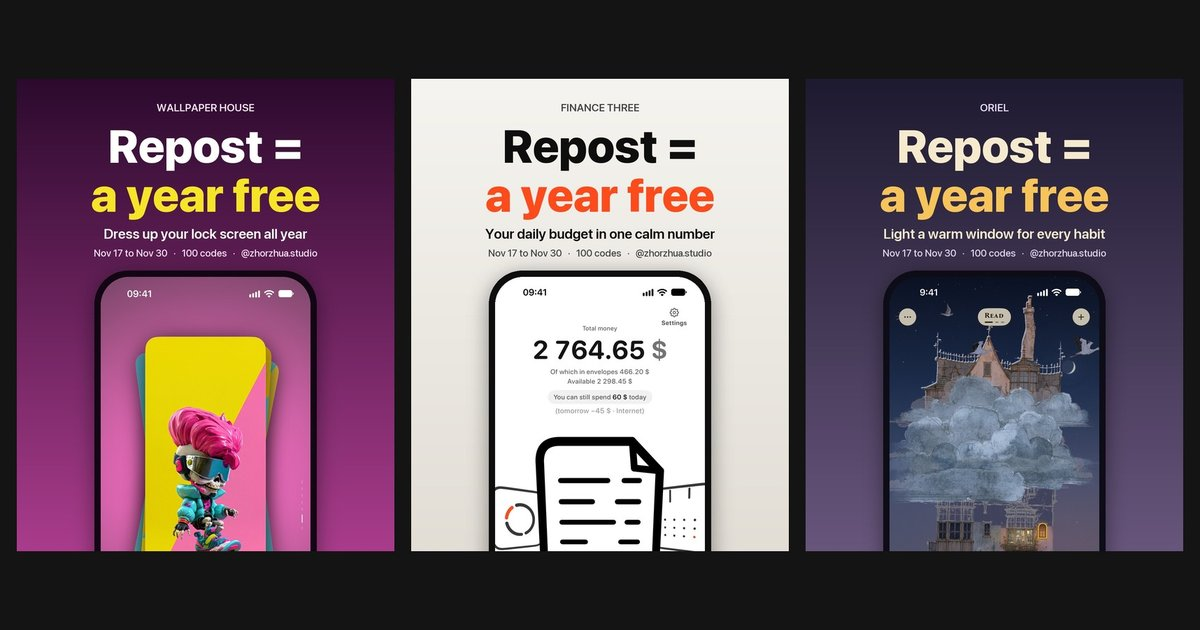
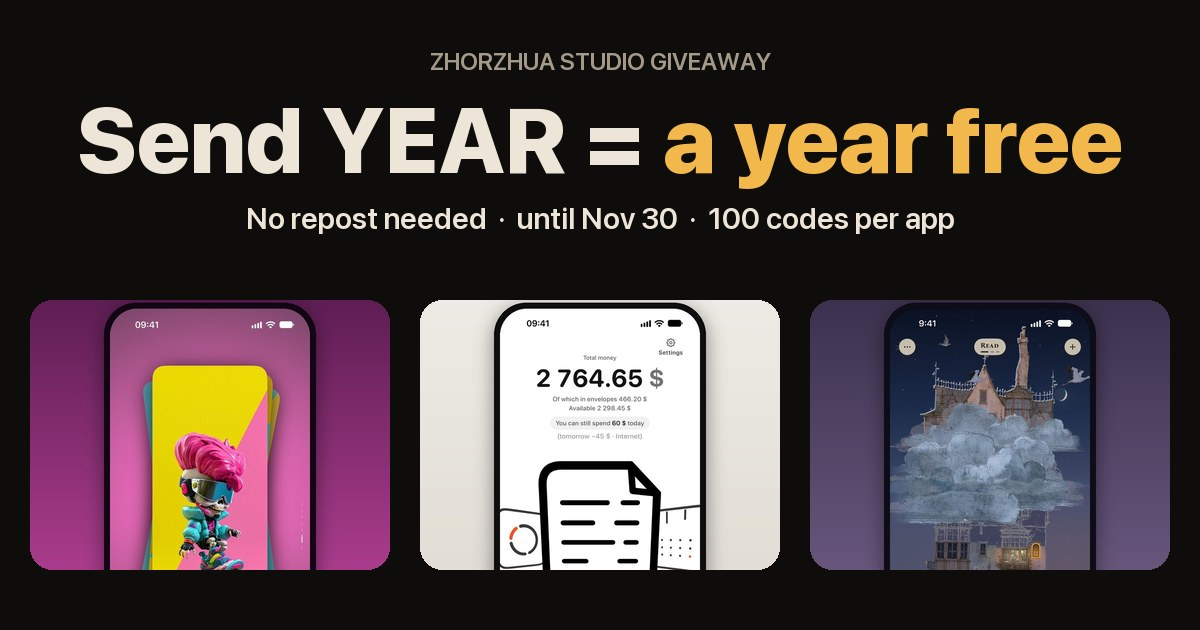
Giveaway: Send YEAR = a year free, no repost needed
Send or comment YEAR, the code comes by DM, a second link for a friend on request.
Cards show the phone part of each post (no Repost headline), Message us on Instagram
and buttons to the live posts. Official rules: who can take part, how to enter,
friend, a rating is never a condition, earlier reposts still count; Apple line kept.
New og.jpg.

diff --git a/giveaway/index.html b/giveaway/index.html
@@ -3,8 +3,8 @@
 <head>
 <meta charset="utf-8">
 <meta name="viewport" content="width=device-width, initial-scale=1, viewport-fit=cover">
-<title>Repost = a year free · Zhorzhua Studio</title>
-<meta name="description" content="Nov 17 to Nov 30, 2026: repost our giveaway post and get a free year of Wallpaper House, Finance Three or Oriel, 100 codes per app">
+<title>Send YEAR = a year free · Zhorzhua Studio</title>
+<meta name="description" content="Until Nov 30, 2026: send us the word YEAR and get a free year of Wallpaper House, Finance Three or Oriel, no repost needed, 100 codes per app">
 <meta name="color-scheme" content="dark light">
 <meta name="theme-color" content="#000000" media="(prefers-color-scheme: dark)">
 <meta name="theme-color" content="#f5efe4" media="(prefers-color-scheme: light)">
@@ -13,14 +13,14 @@
 <link rel="icon" type="image/png" sizes="64x64" href="/favicon.png?v=4">
 <link rel="apple-touch-icon" sizes="180x180" href="/apple-touch-icon-180-v5.png">
 <meta property="og:site_name" content="Zhorzhua Studio">
-<meta property="og:title" content="Repost = a year free">
-<meta property="og:description" content="Nov 17 to Nov 30, 2026: repost our giveaway post and get a free year of Wallpaper House, Finance Three or Oriel, 100 codes per app">
+<meta property="og:title" content="Send YEAR = a year free">
+<meta property="og:description" content="Until Nov 30, 2026: send us the word YEAR and get a free year of Wallpaper House, Finance Three or Oriel, no repost needed, 100 codes per app">
 <meta property="og:type" content="website">
 <meta property="og:url" content="https://zhorzhua.studio/giveaway/">
-<meta property="og:image" content="https://zhorzhua.studio/giveaway/og.jpg">
+<meta property="og:image" content="https://zhorzhua.studio/giveaway/og.jpg?v=2">
 <meta property="og:image:width" content="1200">
 <meta property="og:image:height" content="630">
-<meta property="og:image:alt" content="Three giveaway posts: Wallpaper House, Finance Three and Oriel, Repost = a year free, Nov 17 to Nov 30, 100 codes">
+<meta property="og:image:alt" content="Send YEAR = a year free: Wallpaper House, Finance Three and Oriel, no repost needed, until Nov 30, 100 codes per app">
 <meta name="twitter:card" content="summary_large_image">
 <style>
 :root{
@@ -82,7 +82,7 @@ h1 em{font-style:normal;color:var(--accent-ink)}
   display:flex;flex-direction:column;
   border:1px solid var(--line);background:var(--cell);border-radius:22px;padding:14px 14px 20px;
 }
-.app .post{display:block;width:100%;height:auto;aspect-ratio:4/5;border-radius:14px;object-fit:cover;box-shadow:0 0 0 1px var(--line)}
+.app .post{display:block;width:100%;height:auto;aspect-ratio:4/3;border-radius:14px;object-fit:cover;box-shadow:0 0 0 1px var(--line)}
 .app .name{display:flex;align-items:center;gap:12px;margin-top:16px;padding:0 6px}
 .app .name img{width:40px;height:40px;border-radius:10px;box-shadow:0 0 0 1px var(--line);flex:none}
 .app h3{font-size:1.12rem;font-weight:650;line-height:1.2}
@@ -112,6 +112,9 @@ details.join summary::after{
 details.join[open] summary::after{transform:rotate(-135deg) translateY(-1px)}
 .way{margin-top:14px}
 .way + .way{margin-top:20px}
+.way .go + .go{margin-top:8px}
+.word{display:inline-block;padding:0 7px;border-radius:7px;border:1px solid var(--line);background:var(--cell);color:var(--accent-ink);font-weight:700;letter-spacing:.06em}
+.lede .no{display:block;margin-top:6px;color:var(--ink);font-weight:600}
 .go{
   display:flex;align-items:center;justify-content:center;gap:8px;
   padding:11px 16px;border-radius:14px;text-decoration:none;
@@ -177,14 +180,14 @@ footer .tiny{margin-top:10px;font-size:.8rem;opacity:.75}
 <div class="page">
 <header>
   <a class="home" href="/">Zhorzhua Studio · Giveaway</a>
-  <h1>Repost = <em>a year free</em></h1>
-  <p class="lede">Share our giveaway post and get a free year of one of our iPhone apps, <b>Nov 17 to Nov 30, 2026</b></p>
+  <h1>Send YEAR = <em>a year free</em></h1>
+  <p class="lede">Send us one word and get a free year of one of our iPhone apps, until <b>Nov 30, 2026</b><span class="no">No repost, no tag, no follow needed</span></p>
 </header>
 
 <main>
   <div class="apps">
     <section class="app" id="app-wh" aria-labelledby="wh">
-      <img class="post" src="wh.jpg" alt="Wallpaper House giveaway post: Repost = a year free, dress up your lock screen all year" width="720" height="900">
+      <img class="post" src="wh-phone.jpg" alt="Wallpaper House on an iPhone lock screen" width="720" height="540">
       <div class="name">
         <img src="/icons/wallpaperhouse.png" alt="" width="40" height="40">
         <div>
@@ -194,31 +197,25 @@ footer .tiny{margin-top:10px;font-size:.8rem;opacity:.75}
       </div>
       <p class="what">Fresh lock screen art every day, and House Key unlocks every wallpaper in the house</p>
       <details class="join" id="join-wh">
-        <summary><span>How to join<small>On Instagram or TikTok</small></span></summary>
+        <summary><span>How to get it<small>Send us one word: YEAR</small></span></summary>
         <div class="way">
-          <a class="go" href="https://www.instagram.com/zhorzhua.studio/p/Df145DEgLeS/" target="_blank" rel="noopener">Open the post on Instagram</a>
-          <ol class="mini" aria-label="Instagram steps">
-            <li>Share the post to your story</li>
-            <li>Tag @zhorzhua.studio in the story</li>
-            <li>We DM you a personal one-time link for your free year</li>
+          <a class="go" href="https://ig.me/m/zhorzhua.studio" target="_blank" rel="noopener">Message us on Instagram</a>
+          <a class="go" href="https://www.instagram.com/zhorzhua.studio/p/Df145DEgLeS/" target="_blank" rel="noopener">Or comment on the Instagram post</a>
+          <a class="go" href="https://www.tiktok.com/@zhorzhua.studio/photo/7709112689976511766" target="_blank" rel="noopener">Or comment on the TikTok post</a>
+          <ol class="mini" aria-label="Steps">
+            <li>Send us <span class="word">YEAR</span> in a DM with the app name, or comment <span class="word">YEAR</span> under the Wallpaper House post</li>
+            <li>We reply in your DMs with a personal one-time link</li>
+            <li>Tap it and the App Store opens your free year, no code to type</li>
           </ol>
         </div>
-        <div class="way">
-          <a class="go" href="https://www.tiktok.com/@zhorzhua.studio/photo/7709112689976511766" target="_blank" rel="noopener">Open the post on TikTok</a>
-          <ol class="mini" aria-label="TikTok steps">
-            <li>Repost the post</li>
-            <li>Leave a comment under it</li>
-            <li>We DM you a personal one-time link for your free year</li>
-          </ol>
-        </div>
-        <p class="friend">Tag a friend in the same story or comment and you both get a code for a free year</p>
+        <p class="friend">Want one for a friend too? Just ask in the same chat and we send you a second link to pass on</p>
       </details>
       <span class="spacer"></span>
       <a class="store" href="https://apps.apple.com/app/id6812766610?pt=129263206&amp;ct=site_giveaway&amp;mt=8" target="_blank" rel="noopener" aria-label="Wallpaper House on the App Store">Get it on the App Store</a>
     </section>
 
     <section class="app" id="app-ft" aria-labelledby="ft">
-      <img class="post" src="ft.jpg" alt="Finance Three giveaway post: Repost = a year free, your daily budget in one calm number" width="720" height="900">
+      <img class="post" src="ft-phone.jpg" alt="Finance Three on an iPhone: what you can spend today" width="720" height="540">
       <div class="name">
         <img src="/icons/financethree.png" alt="" width="40" height="40">
         <div>
@@ -228,31 +225,25 @@ footer .tiny{margin-top:10px;font-size:.8rem;opacity:.75}
       </div>
       <p class="what">Your personal daily budget: one number for what you can spend today, with no bank to link</p>
       <details class="join" id="join-ft">
-        <summary><span>How to join<small>On Instagram or Threads</small></span></summary>
+        <summary><span>How to get it<small>Send us one word: YEAR</small></span></summary>
         <div class="way">
-          <a class="go" href="https://www.instagram.com/zhorzhua.studio/p/Df2AIpYgAws/" target="_blank" rel="noopener">Open the post on Instagram</a>
-          <ol class="mini" aria-label="Instagram steps">
-            <li>Share the post to your story</li>
-            <li>Tag @zhorzhua.studio in the story</li>
-            <li>We DM you a personal one-time link for your free year</li>
+          <a class="go" href="https://ig.me/m/zhorzhua.studio" target="_blank" rel="noopener">Message us on Instagram</a>
+          <a class="go" href="https://www.instagram.com/zhorzhua.studio/p/Df2AIpYgAws/" target="_blank" rel="noopener">Or comment on the Instagram post</a>
+          <a class="go" href="https://www.threads.com/@zhorzhua.studio/post/Df16RycAh5J" target="_blank" rel="noopener">Or reply to the Threads post</a>
+          <ol class="mini" aria-label="Steps">
+            <li>Send us <span class="word">YEAR</span> in a DM with the app name, or comment <span class="word">YEAR</span> under the Finance Three post</li>
+            <li>We reply in your DMs with a personal one-time link</li>
+            <li>Tap it and the App Store opens your free year, no code to type</li>
           </ol>
         </div>
-        <div class="way">
-          <a class="go" href="https://www.threads.com/@zhorzhua.studio/post/Df16RycAh5J" target="_blank" rel="noopener">Open the post on Threads</a>
-          <ol class="mini" aria-label="Threads steps">
-            <li>Repost or quote the post</li>
-            <li>Tag @zhorzhua.studio in your quote or in a reply</li>
-            <li>We DM you a personal one-time link for your free year</li>
-          </ol>
-        </div>
-        <p class="friend">Tag a friend in the same story or quote and you both get a code for a free year</p>
+        <p class="friend">Want one for a friend too? Just ask in the same chat and we send you a second link to pass on</p>
       </details>
       <span class="spacer"></span>
       <a class="store" href="https://apps.apple.com/app/id6816424120?pt=129263206&amp;ct=site_giveaway&amp;mt=8" target="_blank" rel="noopener" aria-label="Finance Three on the App Store">Get it on the App Store</a>
     </section>
 
     <section class="app" id="app-oriel" aria-labelledby="or">
-      <img class="post" src="oriel.jpg" alt="Oriel giveaway post: Repost = a year free, light a warm window for every habit" width="720" height="900">
+      <img class="post" src="oriel-phone.jpg" alt="Oriel on an iPhone: a house on a tower in the clouds" width="720" height="540">
       <div class="name">
         <img src="/icons/oriel.png" alt="" width="40" height="40">
         <div>
@@ -262,24 +253,18 @@ footer .tiny{margin-top:10px;font-size:.8rem;opacity:.75}
       </div>
       <p class="what">A habit tracker where every habit you keep lights a window and your tower grows into the clouds</p>
       <details class="join" id="join-oriel">
-        <summary><span>How to join<small>On Instagram or Threads</small></span></summary>
+        <summary><span>How to get it<small>Send us one word: YEAR</small></span></summary>
         <div class="way">
-          <a class="go" href="https://www.instagram.com/zhorzhua.studio/p/Df2HakCgGT7/" target="_blank" rel="noopener">Open the post on Instagram</a>
-          <ol class="mini" aria-label="Instagram steps">
-            <li>Share the post to your story</li>
-            <li>Tag @zhorzhua.studio in the story</li>
-            <li>We DM you a personal one-time link for your free year</li>
+          <a class="go" href="https://ig.me/m/zhorzhua.studio" target="_blank" rel="noopener">Message us on Instagram</a>
+          <a class="go" href="https://www.instagram.com/zhorzhua.studio/p/Df2HakCgGT7/" target="_blank" rel="noopener">Or comment on the Instagram post</a>
+          <a class="go" href="https://www.threads.com/@zhorzhua.studio/post/Df16YlEgpq3" target="_blank" rel="noopener">Or reply to the Threads post</a>
+          <ol class="mini" aria-label="Steps">
+            <li>Send us <span class="word">YEAR</span> in a DM with the app name, or comment <span class="word">YEAR</span> under the Oriel post</li>
+            <li>We reply in your DMs with a personal one-time link</li>
+            <li>Tap it and the App Store opens your free year, no code to type</li>
           </ol>
         </div>
-        <div class="way">
-          <a class="go" href="https://www.threads.com/@zhorzhua.studio/post/Df16YlEgpq3" target="_blank" rel="noopener">Open the post on Threads</a>
-          <ol class="mini" aria-label="Threads steps">
-            <li>Repost or quote the post</li>
-            <li>Tag @zhorzhua.studio in your quote or in a reply</li>
-            <li>We DM you a personal one-time link for your free year</li>
-          </ol>
-        </div>
-        <p class="friend">Tag a friend in the same story or quote and you both get a code for a free year</p>
+        <p class="friend">Want one for a friend too? Just ask in the same chat and we send you a second link to pass on</p>
       </details>
       <span class="spacer"></span>
       <a class="store" href="https://apps.apple.com/app/id6831600824?pt=129263206&amp;ct=site_giveaway&amp;mt=8" target="_blank" rel="noopener" aria-label="Oriel on the App Store">Get it on the App Store</a>
@@ -289,30 +274,32 @@ footer .tiny{margin-top:10px;font-size:.8rem;opacity:.75}
   <section class="block" aria-labelledby="how">
     <h2 id="how">How to get your free year</h2>
     <ol class="steps">
-      <li>Find the giveaway post of the app you want on our profile
-        <span>Open How to join under each app above</span></li>
-      <li>Repost it and tag @zhorzhua.studio
-        <span>Instagram: share the post to your story with the tag</span>
-        <span>TikTok: repost the post and leave a comment under it</span>
-        <span>Threads: repost or quote the post with the tag</span></li>
-      <li>Want one for a friend too? Tag them in the same story, comment or quote
-        <span>You both get a code for a free year</span>
-        <span>Your friend gets theirs as soon as they send us a quick message</span></li>
+      <li>Pick the app you want
+        <span>Wallpaper House, Finance Three or Oriel</span></li>
+      <li>Send us the word YEAR
+        <span>In a DM to @zhorzhua.studio on Instagram, TikTok or Threads, with the app name, like YEAR Oriel</span>
+        <span>Or as a comment under that app's giveaway post</span></li>
       <li>We send you a personal one-time link in your DMs
-        <span>Tap it and the App Store opens your free year, no code to type</span></li>
+        <span>Usually within a day; on Instagram it may land in your message requests</span></li>
+      <li>Tap the link
+        <span>The App Store opens your free year, no code to type</span></li>
+      <li>Want one for a friend?
+        <span>Ask in the same chat and we send you a second link to pass on</span></li>
     </ol>
   </section>
 
   <section class="block" aria-labelledby="terms">
     <h2 id="terms">Official rules</h2>
     <ul class="terms">
-      <li><b>Organizer:</b> Zhorzhua Studio, the developer of Wallpaper House, Finance Three and Oriel</li>
-      <li><b>Dates:</b> Nov 17 to Nov 30, 2026</li>
+      <li><b>Organizer:</b> Zhorzhua Studio, a small indie studio and the developer of Wallpaper House, Finance Three and Oriel</li>
+      <li><b>Dates:</b> Nov 17 to Nov 30, 2026; messages and comments sent until 11:59 pm GMT on Nov 30 count</li>
       <li><b>Prize:</b> one personal one-time App Store offer code for a free year of the subscription: House Key in Wallpaper House, Finance Three Plus or Oriel Plus</li>
-      <li><b>How many:</b> 100 codes per app, one per person, first come first served, no purchase necessary</li>
-      <li><b>How to enter:</b> follow the <a href="#how">steps above</a> for the app you want</li>
-      <li><b>How you get it:</b> we send the code in a direct message on the platform where you entered</li>
-      <li>A friend you tag gets their own code when they send us a message</li>
+      <li><b>How many:</b> 100 codes per app, friend codes included, first come first served, no purchase necessary</li>
+      <li><b>Who can take part:</b> anyone with an Apple Account in a country or region where the app is on the App Store, including current and former subscribers</li>
+      <li><b>How to enter:</b> send the word YEAR in a direct message to @zhorzhua.studio on Instagram, TikTok or Threads, or comment YEAR under the giveaway post of the app you want; no repost, tag, follow or purchase is needed, and reposts with our tag made before Nov 21 count too</li>
+      <li><b>How you get it:</b> we send the code as a one-time link in a direct message on the platform where you entered; one code per person, and the App Store allows one redemption of this offer per Apple Account</li>
+      <li><b>A friend:</b> after your code, ask in the same chat and we send you one more link to pass on to one friend</li>
+      <li>A rating, review or any other action in the App Store is never a condition for a code</li>
       <li>Redeem your code by Dec 31, 2026 on iPhone with the App Store</li>
       <li>After the free year the subscription renews at the regular price unless you switch it off in Settings</li>
       <li>Apple is not a sponsor of this giveaway and is not involved in it in any manner</li>

diff --git a/README.md b/README.md
@@ -12,7 +12,7 @@ One-page site of Zhorzhua Studio. Static: `index.html`, `icons/`, and image asse
 - `/oriel/`: product page with three frames, FAQ, Free and Plus, and the press kit (`oriel/press/`: icon, eight frames, fact sheet, ZIP); `/oriel/privacy.html` is Oriel's privacy policy, the App Store points at it. Store links carry `ct=site_oriel`.
 - `/until/`: Until: Countdown Widgets, product page in the words of the live App Store page, five en-US App Store frames (winter set), the full help (it is the App Store Support URL, keep the help and the contact on it), fact sheet `until/press/until-facts.txt`; `/until/privacy.html` is the App Store privacy URL. Store links carry `pt=129263206&ct=site_until`. The subtitle on the page is seasonal: after 26.12 follow the evergreen App Store subtitle and frames
 - `/blackfriday/`: Black Friday 2026 deals (Finance Three Plus year, Oriel Plus Forever, Oriel Plus year at 50% off), three Redeem buttons with the offer code redemption URLs (a custom offer code can't be typed into the App Store). Social posts, bios and Indie App Sales point here. Not in the site navigation until 27.11; there is no sitemap. `og.jpg` is rendered by `~/Projects/StudioInstagram/outreach/black-friday-2026/page/make_og.py`. The codes expire on 2.12 at 00:00 PT: take the page down or mark it over after that
-- `/giveaway/`: Repost = a year free, 17 to 30.11.2026 (Wallpaper House, Finance Three, Oriel). The apps open `/giveaway/?app=wh|ft|oriel`: that app moves first with How to join open (buttons to its live posts and three steps per platform); without `app` all three are collapsed. `giveaway/status.json` is the switch the apps read at launch: set `"active": false` (all) or `apps.<id>.active` to false and push. GitHub Pages serves it as `application/json` with its fixed `Cache-Control: max-age=600` (no `_headers` on Pages), so a switch reaches the apps within about 10 minutes of the Pages build
+- `/giveaway/`: Send YEAR = a year free, 17 to 30.11.2026 (Wallpaper House, Finance Three, Oriel); until 20.11 it was Repost = a year free, from 21.11 no repost: send or comment YEAR, the code comes by DM, a second link for a friend on request. Cards show `*-phone.jpg` (the post images without their Repost headline), `og.jpg` is the YEAR card. The apps open `/giveaway/?app=wh|ft|oriel`: that app moves first with How to get it open (Message us on Instagram, buttons to its live posts, three steps); without `app` all three are collapsed. `giveaway/status.json` is the switch the apps read at launch: set `"active": false` (all) or `apps.<id>.active` to false and push. GitHub Pages serves it as `application/json` with its fixed `Cache-Control: max-age=600` (no `_headers` on Pages), so a switch reaches the apps within about 10 minutes of the Pages build
 - `/finance-three/`: product page in the words of the live App Store page (1.2.4 since 16.11.2026: daily budget, see what you can spend today), its first three App Store frames, FAQ and the press kit (`finance-three/press/`: icon, the six 1.2.4 en-US frames, fact sheet, ZIP; the older 1.2 frames stay in the folder for old letters). Store links carry `pt=129263206` and `ct=site_*`.
 - Every visible text passes `~/.claude/skills/studio-outward-text/check_text.py` (no dashes, no periods at line ends); the hero headline keeps its period as typography.
 
